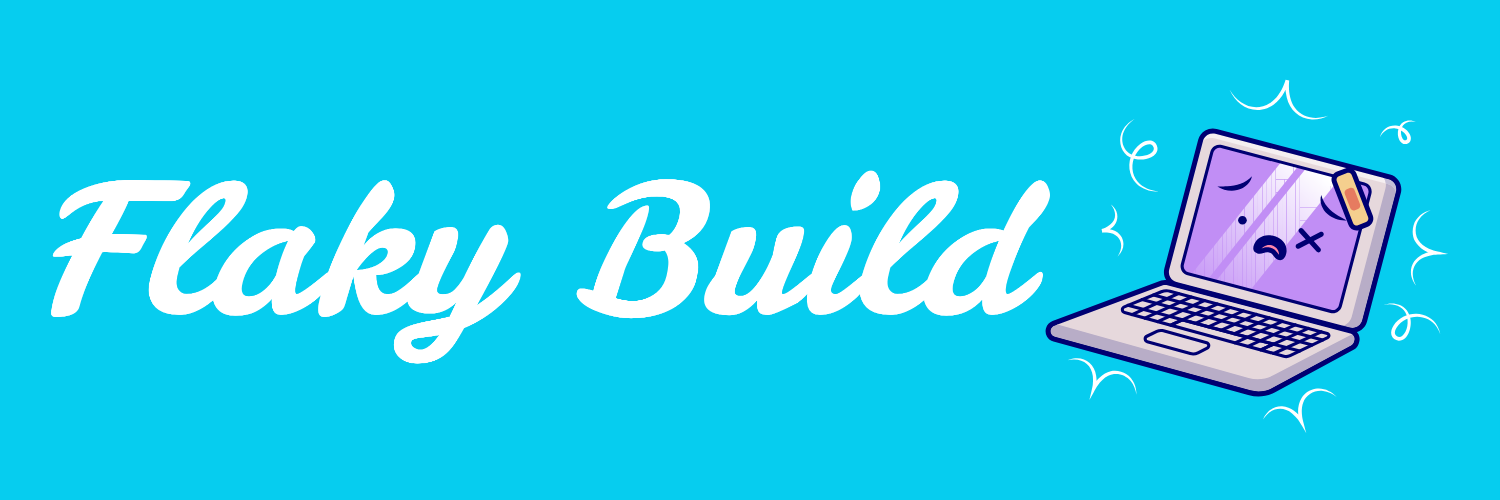
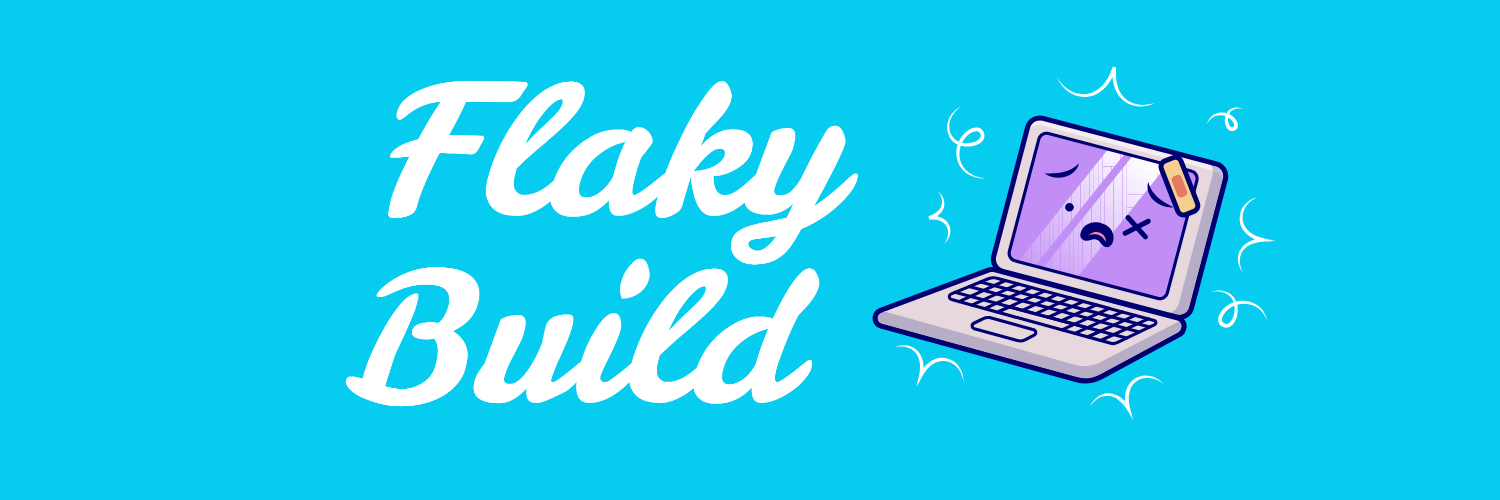
Shorten description and add social sharing image with better layout

Changed region(s): [[0.0307, 0.15, 0.9813, 0.84], [0.7053, 0.15, 0.7667, 0.21], [0.92, 0.24, 0.9507, 0.3]]

diff --git a/site.config.ts b/site.config.ts
@@ -14,7 +14,7 @@ export default siteConfig({
   author: 'Onni Hakala',
 
   // open graph metadata (optional)
-  description: "Undeterministic blog on product development and software engineering. It's flaky so you never know what to expect 💻🔥",
+  description: "Undeterministic blog on product development and software engineering 💻🔥",
 
   // social usernames (optional)
   twitter: 'flakybuild',
